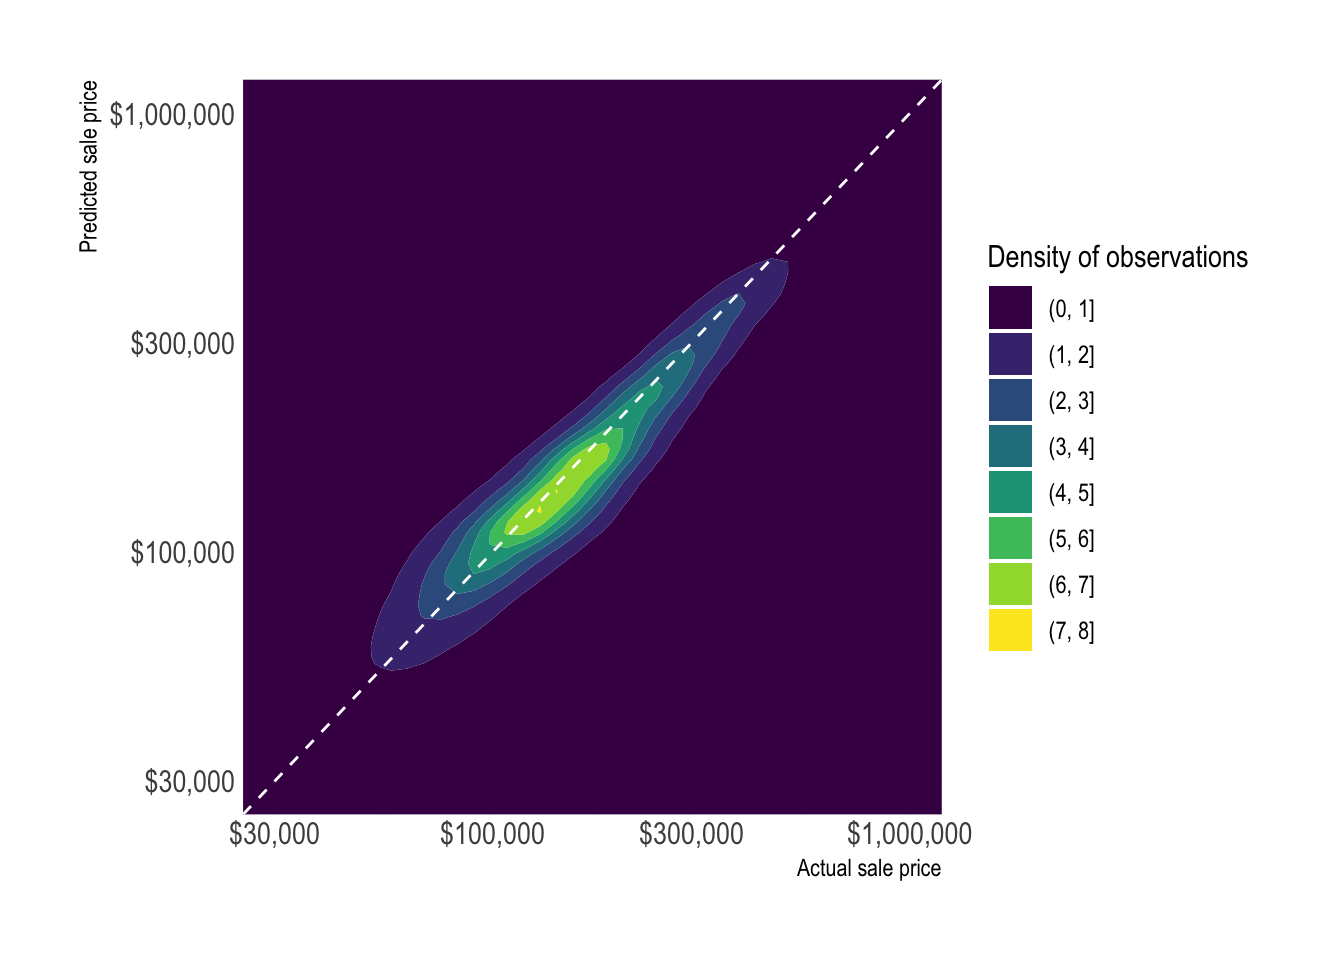
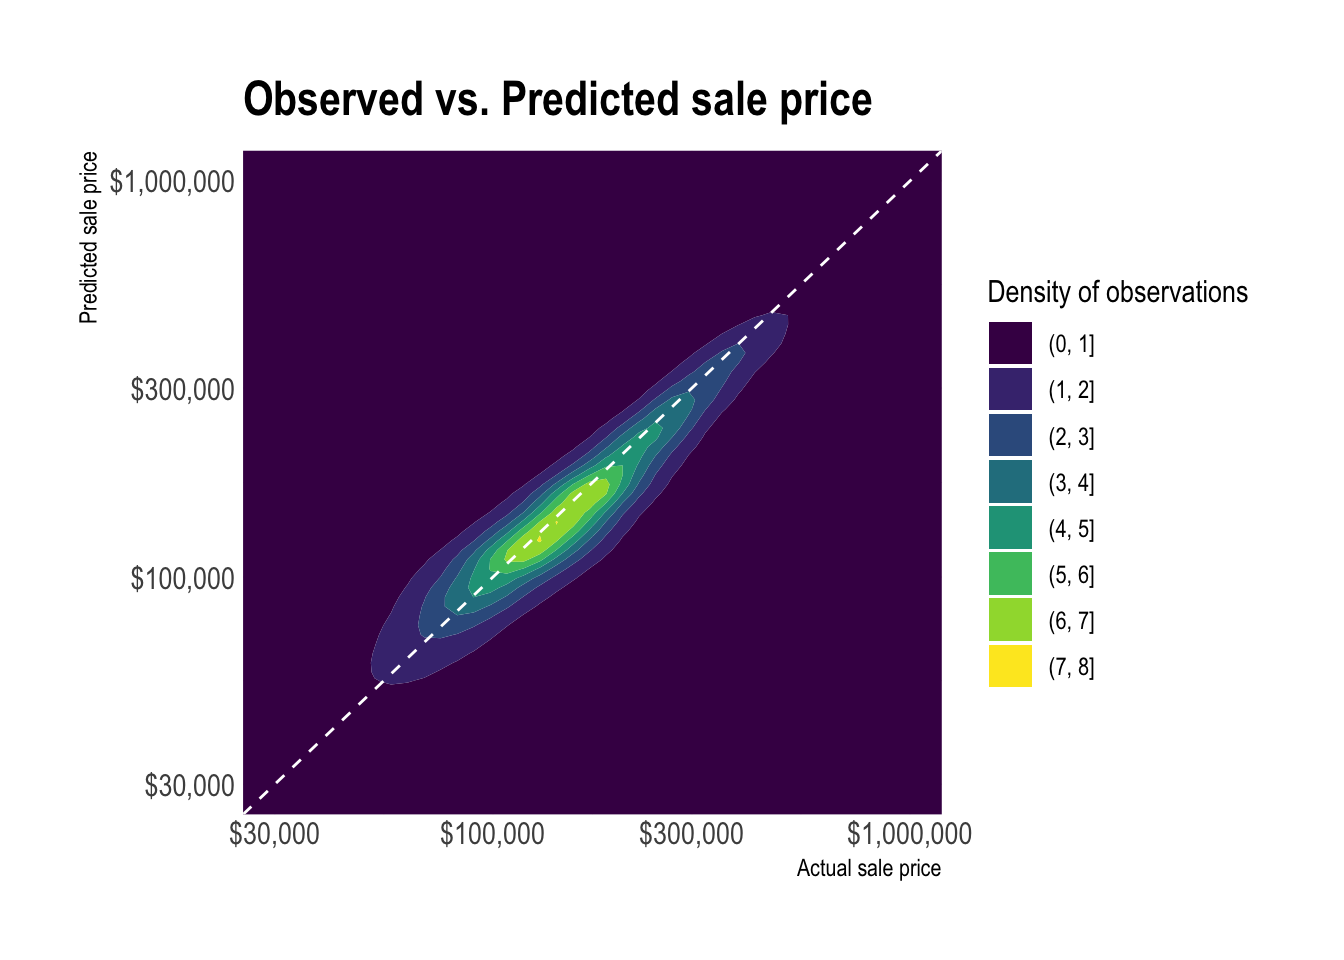
added title to obs pred graph

diff --git a/content/post/house_price_estimator/index.html b/content/post/house_price_estimator/index.html
@@ -87,6 +87,9 @@ projects: []
   labs(x = &quot;Root Mean Squared Error&quot;,
        y = &quot;R^2&quot;)</code></pre>
 <p><img src="{{< blogdown/postref >}}index_files/figure-html/unnamed-chunk-8-1.png" width="672" /></p>
+</div>
+<div id="observed-vs.-predicted-full-dataset" class="section level2">
+<h2>Observed vs. Predicted (full dataset)</h2>
 <pre class="r"><code>full_model_results %&gt;% 
   ggplot(aes(sale_price_adj, 10^.pred)) +
   geom_density_2d_filled() +
@@ -97,6 +100,7 @@ projects: []
                   ylim = c(30000, 10^6)) +
   labs(x = &quot;Actual sale price&quot;,
        y = &quot;Predicted sale price&quot;,
+       title = &quot;Observed vs. Predicted sale price&quot;,
        fill = &quot;Density of observations&quot;)</code></pre>
 <p><img src="{{< blogdown/postref >}}index_files/figure-html/unnamed-chunk-10-1.png" width="672" /></p>
 </div>
